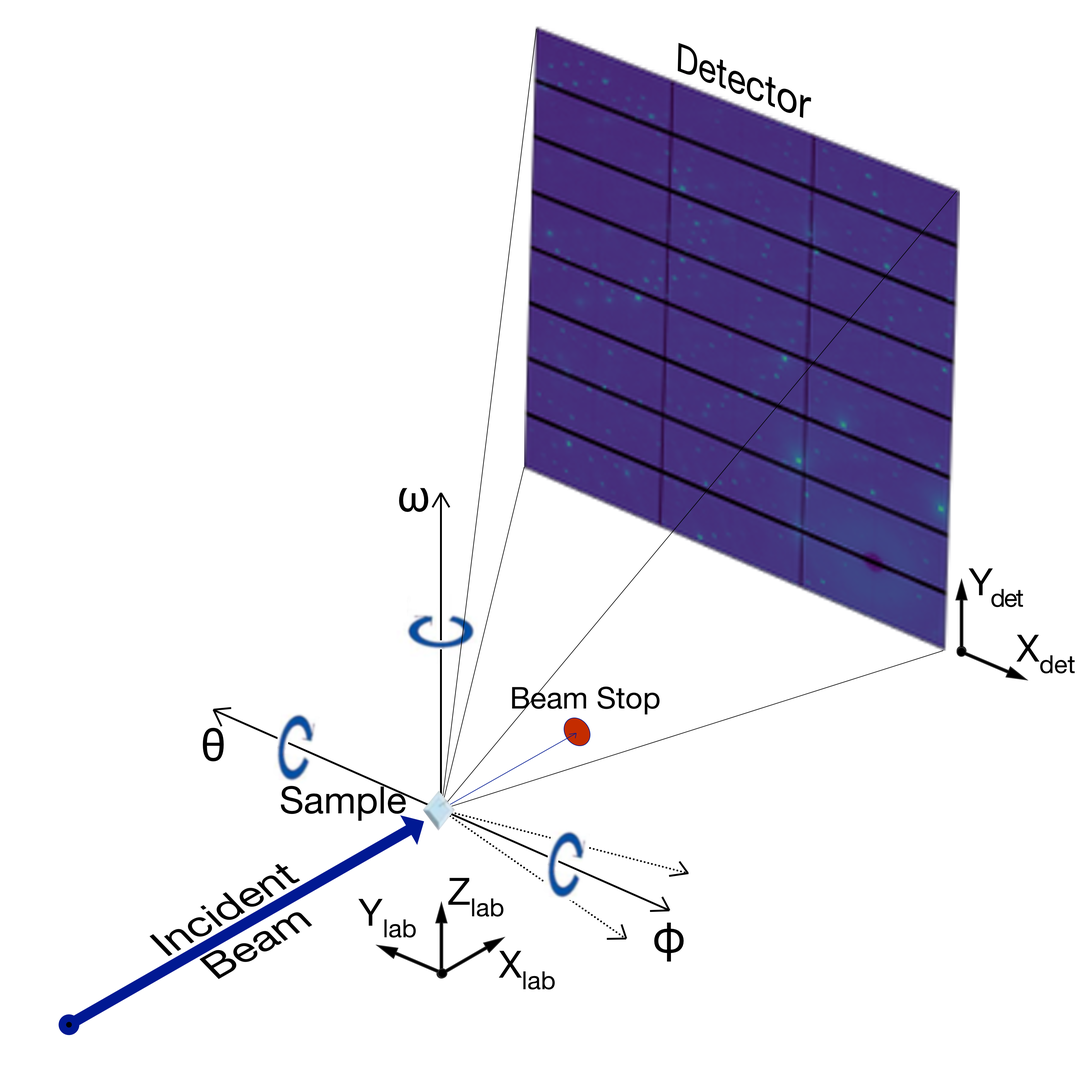
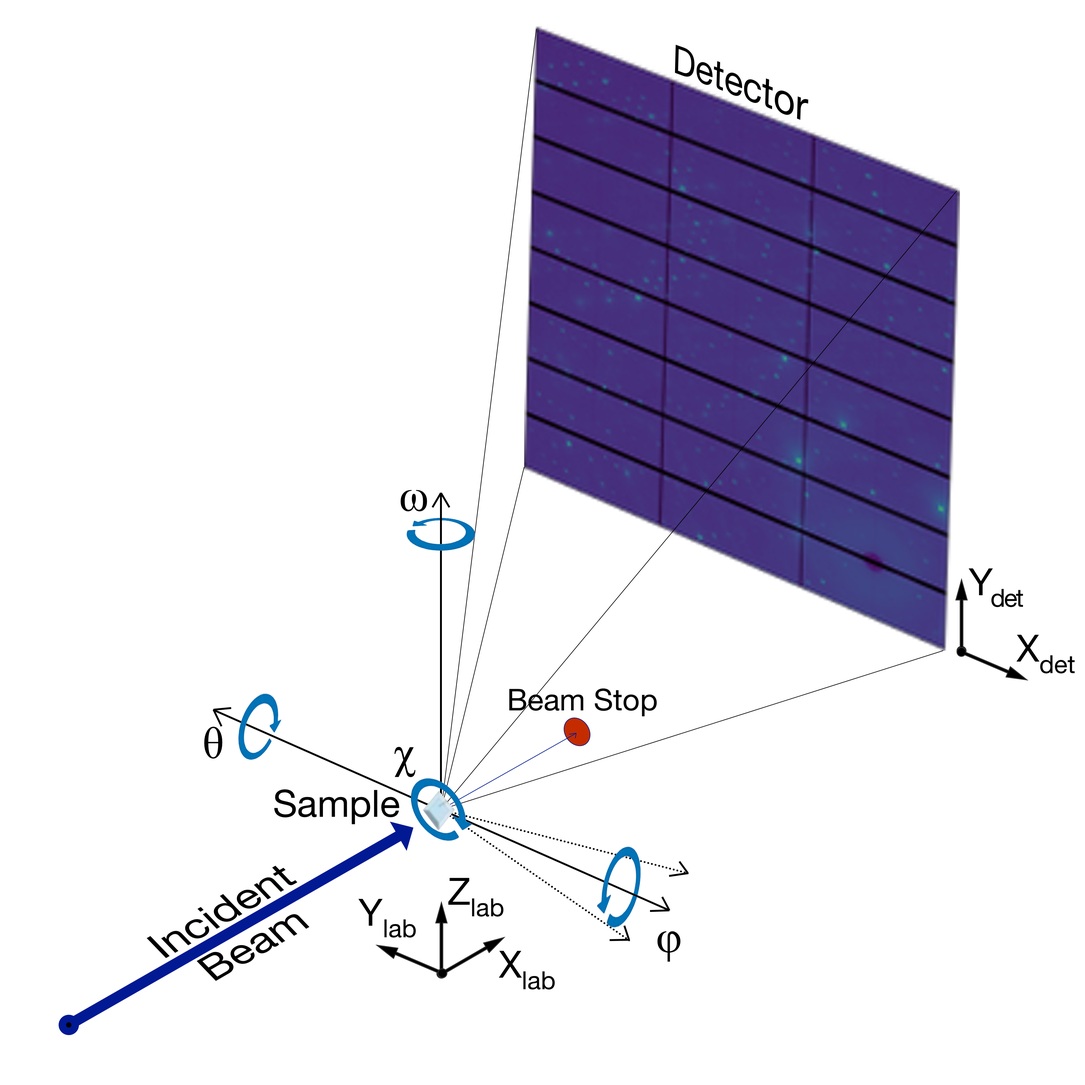
deploy: 9f89258240fb28039b5571b970d1efc821f41627

diff --git a/searchindex.js b/searchindex.js
@@ -1,1 +1,1 @@
-Search.setIndex({docnames:["experiment","index","installation","introduction","nxrefine"],envversion:{"sphinx.domains.c":2,"sphinx.domains.changeset":1,"sphinx.domains.citation":1,"sphinx.domains.cpp":5,"sphinx.domains.index":1,"sphinx.domains.javascript":2,"sphinx.domains.math":2,"sphinx.domains.python":3,"sphinx.domains.rst":2,"sphinx.domains.std":2,sphinx:56},filenames:["experiment.rst","index.rst","installation.rst","introduction.rst","nxrefine.rst"],objects:{},objnames:{},objtypes:{},terms:{"0":3,"1":[0,3],"10":[2,3],"100":0,"100k":0,"10\u00e5":3,"1967":3,"1999":3,"2":0,"200":0,"2023":0,"22":3,"23":0,"3":[0,3],"30":3,"300":0,"32":3,"3d":3,"3x3":3,"457":3,"6":[0,3],"614":3,"75969":0,"90":3,"\u03b4":3,"\u03b4pdf":3,"\u03b7":3,"\u03b8":3,"\u03bc":3,"\u03bd":3,"\u03c6":3,"\u03c7":3,"\u03c9":3,"case":3,"class":0,"default":0,"export":2,"final":3,"function":[0,1,3],"import":[0,2],"new":[0,2],"return":2,"switch":2,"true":2,"while":1,A:2,At:[0,3],By:[0,3],For:[0,3],If:[0,2,3],In:[0,2,3],It:[0,2,3],No:0,On:0,The:[0,1,2,3],Then:2,There:0,These:[0,1,2,3],To:[0,3],With:3,_:3,abbrevi:0,about:3,abov:[0,3],absolut:3,access:0,accommod:3,accomplish:3,accord:0,acquisit:[1,3],act:0,acta:3,ad:2,add:2,addit:[2,3],adjust:3,administr:2,advanc:[0,1,3],after:[0,1],aim:0,algorithm:3,all:[0,2,3],allow:[0,1,2,3],along:3,alpha:3,alreadi:[0,2],also:[0,2,3],altern:0,although:[0,2],an:[0,1,2,3],analysi:0,analysis_hom:0,analysis_path:0,analyz:0,angl:[0,3],ani:[0,2],anl:2,anoth:0,ap:0,appear:0,append:2,appl:3,appropri:3,approxim:3,ar:[0,1,2,3],arbitrari:3,area:[1,3],aris:1,around:3,arrai:[0,1,3],assign:3,associ:0,assum:[0,3],autom:1,automat:[0,2,3],avail:[0,1],averag:[1,3],avoid:0,ax:3,axi:3,b:3,bar:2,base:[2,3],bashrc:2,batch:1,beam:[1,3],beamlin:[0,2,3],becaus:0,been:[0,2,3],befor:[0,1,2,3],begin:3,behind:3,being:[0,1],below:[0,2],between:[0,3],blank:0,both:[0,1,2,3],bragg:[1,3],brillouin:3,browser:0,bug:2,build:2,buse:3,c:[2,3],calcul:3,calibr:[0,2,3],call:[0,3],can:[0,1,2,3],cannot:0,cartesian:3,caus:2,cbf:[0,3],cci:2,cctbx:2,cctbx_doc:2,cctw:[1,3],cell:3,center:3,certain:3,chang:[2,3],chemic:0,chess:[0,3],chi:3,chip:3,choos:0,chosen:0,circl:3,click:0,clone:2,code:2,collect:[0,1,3],com:2,command:[0,1,2],common:[0,3],commonli:3,compat:0,complet:[0,1,3],compon:0,compris:[0,3],comput:2,concern:2,concurr:2,conda:2,configur:[0,2,3],conform:0,conjunct:2,connect:3,consist:3,contact:2,contain:[0,2,3],content:0,contigu:1,continu:[1,3],convent:3,convers:3,convert:3,coordin:[0,1,2,3],copi:[0,2],core:2,corner:3,correspond:[0,3],corrupt:2,could:[0,2],coupl:3,cours:3,cover:3,cpu1:2,cpu2:2,cpu3:2,creat:[0,2,3],creation:0,cryst:3,crystal:[0,1,2,3],crystallin:[1,3],crystallograph:1,current:[2,3],custom:[0,2],cycl:0,d:[0,2,3],data:[0,1,2,3],databas:0,date:2,db:0,dectri:3,defin:[0,2,3],depend:[2,3],deriv:1,describ:[0,2,3],descript:0,design:[0,3],det:3,detail:2,detector:[1,3],determin:[2,3],deviat:[1,3],dialog:[0,2],differ:[0,2,3],diffract:1,diffus:[1,3],dimension:[1,3],direct:3,directli:0,directori:1,disabl:2,discrep:3,distanc:3,distribut:[0,2,3],doc:2,doe:0,don:0,download:2,downward:3,dure:0,e:[0,1,2,3],each:[0,2,3],earlier:3,easili:0,echo:2,edit:[0,2],either:[0,1,2,3],elimin:3,enabl:1,end:[2,3],energi:3,entir:1,environ:2,equat:3,equival:[0,3],estim:3,etc:0,everi:0,exampl:[0,2,3],exce:3,except:0,exclus:0,execut:2,exist:[0,1,2],experi:[1,2,3],experiment1:0,experiment2:0,experiment3:0,experiment:[0,1,2],extens:0,extern:0,f1:0,f1_transform:0,f2:0,f2_transform:0,f3:0,f3_transform:0,facil:0,facilit:[0,3],fals:2,fashion:1,fast:1,fastest:3,few:3,field:0,fifo:2,fig:3,figur:[2,3],file:[0,2,3],fill:[0,3],finish:2,first:[2,3],firstli:0,fix:3,flip:3,follow:[0,2,3],form:3,format:0,formula:0,four:3,frac:3,frame:3,framework:0,from:[0,1,2,3],further:0,futur:2,g:[0,1,2,3],gap:3,gener:[0,1,3],geometri:1,gigabyt:3,git:2,github:2,given:3,goal:1,goniomet:[0,3],gonpitch:3,gov:2,grid:2,group:[0,2],grower:0,gui:[0,1,2],gup:0,h5:0,h:[0,3],ha:[0,2,3],hand:[2,3],handl:3,hat:3,have:[0,1,2,3],hdf5:0,here:[0,2],hidden:2,hierarch:0,hierarchi:0,high:3,hit:2,home:[0,2],horizont:3,how:0,howev:[1,3],http:2,hundr:3,i:[0,2,3],id4b:0,id4baux:0,id:[0,3],ideal:3,identifi:3,imag:[0,1,3],implement:[0,1,2,3],incid:3,includ:[0,1,2],independ:3,index:1,indic:3,info:2,inform:[0,2],ingest:0,ini:[0,2],initi:[0,1,3],input:[0,2],inspect:[0,1,3],instal:1,instrument:[1,2,3],intens:[1,3],interatom:3,interest:2,interfer:0,intern:0,intersect:3,introduct:1,invert:3,io:2,issu:2,item:2,its:[0,3],itself:[2,3],j:3,jen:2,job:[1,2],job_id:2,just:3,k:3,keep:2,kei:2,known:3,l:3,l_:3,lab:3,label1:0,label2:0,label:0,laboratori:3,lambda:3,larg:1,larger:0,later:[0,2,3],lattic:3,launch:[0,1,2],layout:1,lbl:2,left:[0,3],level:0,levi:3,librari:1,limit:2,line:[0,1,2],link:[0,2],list:[0,2],load:0,local:2,locat:[0,2],lock:2,log:[0,2],logic:0,login:2,longer:0,lower:3,m:2,machin:2,macro:0,mai:[0,2],manag:2,mani:[0,3],manual:3,map:3,mathbf:3,mathcal:3,matric:3,matrix:[1,3],matter:1,mean:0,measur:[0,1,3],menu:[0,2],merg:3,mesh:[1,3],metadata:[0,2],method:[0,3],minim:3,minut:[1,3],misalign:3,model:3,modifi:[0,2],modul:[0,1],monochromat:[1,3],more:[0,2],most:0,motor:3,move:[0,3],much:[0,2],multicor:2,multinod:2,multipl:[2,3],multipli:3,must:[0,2],mysql:0,name:[0,2],necessari:[0,2,3],need:[2,3],neutron:0,nexpi:[0,1],next:0,nexu:[0,2,3],nexusformat:[0,2],nf:0,node:2,normal:[0,3],note:2,number:[0,2],nx:0,nx_lock:2,nx_lockdirectori:2,nxbeamlin:0,nxcommand:2,nxdatabas:0,nxlogger:0,nxrefin:[0,2,3],nxserver:2,nxset:[0,2],nxsetup:2,nxstack:0,o:3,often:[0,3],old:2,omega:3,onc:[0,2,3],one:[0,3],ones:2,onli:[0,2,3],open:[0,2],oper:[2,3],optim:3,option:0,order:[0,2,3],org:2,orient:[1,2],origin:3,orthogon:3,osborn:2,other:[0,2,3],otherwis:0,output:2,overridden:2,own:2,p:3,packag:[0,2],page:1,pair:[0,3],paper:3,parallel:[0,2,3],paramet:[0,2,3],parametr:[0,3],parent:2,part:0,particular:[0,2],path:[0,2],patterson:3,pdf:3,peak:[1,2,3],perform:[0,2],period:0,permiss:2,perpendicular:3,persist:2,peter:2,phi:3,photon:[0,3],pilatu:3,pip:2,pitch:3,pixel:3,place:[2,3],plane:3,pleas:2,plugin:[0,1,2],pmatrix:3,point:3,poni:0,posit:3,possibl:[0,3],powder:[0,2,3],powder_calibr:0,prepar:2,prepend:2,present:3,prevent:2,previou:0,principl:2,probabl:3,procedur:0,process:[0,2,3],produc:[0,3],program:3,propos:0,provid:[0,2,3],psutil:2,punch:3,pyfai:[0,2],pypi:2,python:[1,2],q00000:2,q:3,qm2:3,qsub:2,queu:2,queue:[1,2],quickli:3,quit:[0,3],r:3,rai:[0,1,2,3],rapid:1,raw6m:0,raw:[0,3],raw_hom:0,raw_path:0,reach:2,read:[0,2],readthedoc:2,real:3,reason:3,recent:1,reciproc:[0,1,2,3],recommend:[0,2],record:[0,2],rectangular:3,reduc:[1,3],reduct:[0,1,2,3],refer:[2,3],refin:[1,2,3],rel:0,relat:3,relev:2,remov:2,repeat:3,replac:2,report:2,repositori:2,repres:3,requir:[0,1,3],respect:3,result:[0,2,3],retain:3,right:[2,3],roll:3,rosborn:2,rotat:[0,1,3],run:[0,1,2,3],run_command:2,s:[0,2,3],sai:0,same:[0,2],sampl:[0,1],sample1:0,sample1_100k:0,sample1_200k:0,sample1_300k:0,sample2:0,sample3:0,sample_scan:0,save:[0,3],scan:[0,2,3],scatter:[0,1,3],scenario:0,schedul:0,scientist:3,screen:0,script:[0,2],sd:3,search:[1,2,3],secondli:0,section:[0,2,3],sector:[0,3],see:[0,2,3],select:[0,3],separ:[0,2],seri:3,server:0,session:2,set:[0,1,3],setup:1,sh:2,share:0,shell:2,should:[0,2,3],show:[2,3],shown:3,simultan:2,sinc:[0,3],singl:[0,1,3],situat:3,size:3,small:3,so:[0,1,2,3],solv:1,some:2,someon:0,sometim:3,sourc:[0,2,3],space:[0,1,2,3],specif:0,specifi:[0,2],speed:[2,3],sqlalchemi:2,stack:[0,1],stage:3,stale:2,standard:[0,2],start:2,statu:0,still:[0,3],storag:0,store:[0,2,3],string:[2,3],structur:[0,1,2,3],sub:1,submiss:2,submit:[1,2],subsequ:2,subset:0,sum:3,suppli:2,support:1,synchrotron:[0,1],system:[2,3],t:0,task:[0,2],task_list:2,tau_:3,tau_i:3,tau_x:3,tau_z:3,temperatur:[0,1,3],templat:[0,2],ten:3,termin:0,thei:[0,2],them:[0,2,3],themselv:0,theta:3,thi:[0,2,3],those:3,thousand:3,three:[0,1,2,3],threshold:3,through:3,tiff:[0,3],tilt:3,time:[0,3],tise2:0,togeth:0,too:3,tool:[2,3],top:[0,3],touch:[0,2],traceback:2,transform:[0,1,2,3],translat:3,transmiss:3,tree:0,two:[0,2,3],type:[0,2],typic:[0,1],u:3,uncompress:3,under:3,uniqu:[0,2],unit:3,up:2,updat:2,upload:2,upper:3,url:2,us:[0,1,2,3],user:[0,1],usual:[0,3],valid:2,valu:[0,2,3],variabl:[0,2,3],vector:3,version:3,vertic:3,view:[0,2],volum:[1,3],wa:3,wangxu:2,want:0,wavelength:3,we:0,what:2,when:[0,2,3],where:[0,3],wherea:3,whether:2,which:[0,2,3],whose:3,within:[0,2],without:2,workflow:[0,1,2,3],would:[0,3],wrap:2,write:2,written:[1,2],x:[0,1,3],x_:3,x_c:3,x_p:3,y:3,y_:3,y_c:3,y_p:3,yaw:3,you:[2,3],z:3,z_:3,zone:3},titles:["Experiments","NXRefine","Installation","Introduction","nxrefine package"],titleterms:{"default":2,cctw:2,content:4,directori:[0,2],experi:0,experiment:3,geometri:3,indic:1,initi:2,instal:2,instrument:0,introduct:3,layout:0,librari:2,modul:4,nexpi:2,nxrefin:[1,4],orient:3,packag:4,requir:2,sampl:3,server:2,set:2,setup:[0,2],sub:0,submodul:4,support:2,tabl:1,user:2}})
+Search.setIndex({docnames:["experiment","index","installation","introduction","nxrefine"],envversion:{"sphinx.domains.c":2,"sphinx.domains.changeset":1,"sphinx.domains.citation":1,"sphinx.domains.cpp":5,"sphinx.domains.index":1,"sphinx.domains.javascript":2,"sphinx.domains.math":2,"sphinx.domains.python":3,"sphinx.domains.rst":2,"sphinx.domains.std":2,sphinx:56},filenames:["experiment.rst","index.rst","installation.rst","introduction.rst","nxrefine.rst"],objects:{},objnames:{},objtypes:{},terms:{"0":3,"1":[0,3],"10":[2,3],"100":0,"100k":0,"10\u00e5":3,"1967":3,"1999":3,"2":0,"200":0,"2023":0,"22":3,"23":0,"3":[0,3],"30":3,"300":0,"32":3,"3d":3,"3x3":3,"457":3,"6":[0,3],"614":3,"75969":0,"90":3,"\u03b4":3,"\u03b4pdf":3,"\u03b7":3,"\u03b8":3,"\u03bc":3,"\u03bd":3,"\u03c6":3,"\u03c7":3,"\u03c9":3,"class":0,"default":0,"export":2,"final":3,"function":[0,1,3],"import":[0,2],"new":[0,2],"return":2,"switch":2,"true":2,"while":1,A:2,At:[0,3],By:[0,3],For:[0,3],If:[0,2,3],In:[0,2,3],It:[0,2,3],No:0,On:0,The:[0,1,2,3],Then:2,There:0,These:[0,1,2,3],To:[0,3],With:3,_:3,abbrevi:0,about:3,abov:[0,3],absolut:3,access:0,accommod:3,accomplish:3,accord:0,acquisit:[1,3],act:0,acta:3,ad:2,add:2,addit:[2,3],adjust:3,administr:2,advanc:[0,1,3],after:[0,1],aim:0,algorithm:3,all:[0,2,3],allow:[0,1,2,3],along:3,alpha:3,alreadi:[0,2],also:[0,2,3],altern:0,although:[0,2],an:[0,1,2,3],analysi:0,analysis_hom:0,analysis_path:0,analyz:0,angl:[0,3],ani:[0,2],anl:2,anoth:0,ap:0,appear:0,append:2,appl:3,approxim:3,ar:[0,1,2,3],arbitrari:3,area:[1,3],aris:1,around:3,arrai:[0,1,3],assign:3,associ:0,assum:[0,3],autom:1,automat:[0,2,3],avail:[0,1],averag:[1,3],avoid:0,ax:3,axi:3,b:3,bar:2,base:[2,3],bashrc:2,batch:1,beam:[1,3],beamlin:[0,2,3],becaus:0,been:[0,2,3],befor:[0,1,2,3],begin:3,behind:3,being:[0,1],below:[0,2],between:[0,3],blank:0,both:[0,1,2,3],bragg:[1,3],brillouin:3,browser:0,bug:2,build:2,buse:3,c:[2,3],calcul:3,calibr:[0,2,3],call:[0,3],can:[0,1,2,3],cannot:0,cartesian:3,caus:2,cbf:[0,3],cci:2,cctbx:2,cctbx_doc:2,cctw:[1,3],cell:3,center:3,certain:3,chain:3,chang:[2,3],chemic:0,chess:[0,3],chi:3,chip:3,choos:0,chosen:0,circl:3,click:0,clone:2,code:2,collect:[0,1,3],com:2,command:[0,1,2],common:[0,3],commonli:3,compat:0,complet:[0,1,3],compon:0,compris:[0,3],comput:2,concern:2,concurr:2,conda:2,configur:[0,2,3],conform:0,conjunct:2,connect:3,consist:3,contact:2,contain:[0,2,3],content:0,contigu:1,continu:[1,3],convent:3,convers:3,convert:3,coordin:[0,1,2,3],copi:[0,2],core:2,corner:3,correspond:[0,3],corrupt:2,could:[0,2],coupl:3,cours:3,cover:3,cpu1:2,cpu2:2,cpu3:2,creat:[0,2,3],creation:0,cryst:3,crystal:[0,1,2,3],crystallin:[1,3],crystallograph:1,current:[2,3],custom:[0,2],cycl:0,d:[0,2,3],data:[0,1,2,3],databas:0,date:2,db:0,defin:[0,2,3],depend:[2,3],deriv:1,describ:[0,2,3],descript:0,design:[0,3],det:3,detail:2,detector:[1,3],determin:[2,3],deviat:[1,3],dialog:[0,2],differ:[0,2,3],diffract:1,diffus:[1,3],dimension:[1,3],direct:3,directli:0,directori:1,disabl:2,discrep:3,distanc:3,distribut:[0,2,3],doc:2,doe:0,don:0,download:2,downward:3,dure:0,e:[0,1,2,3],each:[0,2,3],earlier:3,easili:0,echo:2,edit:[0,2],either:[0,1,2,3],elimin:3,enabl:1,end:[2,3],energi:3,entir:1,environ:2,equat:3,equival:[0,3],estim:3,etc:0,everi:0,exampl:[0,2,3],exce:3,except:0,exclus:0,execut:2,exist:[0,1,2],experi:[1,2,3],experiment1:0,experiment2:0,experiment3:0,experiment:[0,1,2],extens:0,extern:0,f1:0,f1_transform:0,f2:0,f2_transform:0,f3:0,f3_transform:0,facil:0,facilit:[0,3],fals:2,fashion:1,fast:1,fastest:3,few:3,field:0,fifo:2,fig:3,figur:[2,3],file:[0,2,3],fill:[0,3],finish:2,first:[2,3],firstli:0,fix:3,flip:3,follow:[0,2,3],form:3,format:0,formula:0,four:3,frac:3,frame:3,framework:0,from:[0,1,2,3],further:0,futur:2,g:[0,1,2,3],gap:3,gener:[0,1,3],geometri:1,gigabyt:3,git:2,github:2,given:3,goal:1,goniomet:[0,3],gonpitch:3,gov:2,grid:2,group:[0,2],grower:0,gui:[0,1,2],gup:0,h5:0,h:[0,3],ha:[0,2,3],hand:[2,3],handl:3,hat:3,have:[0,1,2,3],hdf5:0,here:[0,2],hidden:2,hierarch:0,hierarchi:0,high:3,hit:2,home:[0,2],horizont:3,how:0,howev:[1,3],http:2,hundr:3,i:[0,2,3],id4b:0,id4baux:0,id:[0,3],ideal:3,identifi:3,imag:[0,1,3],implement:[0,1,2,3],incid:3,includ:[0,1,2],independ:3,index:1,indic:3,info:2,inform:[0,2],ingest:0,ini:[0,2],initi:[0,1,3],input:[0,2],inspect:[0,1,3],instal:1,instrument:[1,2,3],intens:[1,3],interatom:3,interest:2,interfer:0,intern:0,intersect:3,introduct:1,io:2,issu:2,item:2,its:[0,3],itself:[2,3],j:3,jen:2,job:[1,2],job_id:2,just:3,k:3,keep:2,kei:2,known:3,l:3,l_:3,l_axi:3,lab:3,label1:0,label2:0,label:0,laboratori:3,lambda:3,larg:1,larger:0,later:[0,2,3],lattic:3,launch:[0,1,2],layout:1,lbl:2,left:[0,3],level:0,levi:3,librari:1,limit:2,line:[0,1,2],link:[0,2],list:[0,2],load:0,local:2,locat:[0,2],lock:2,log:[0,2],logic:0,login:2,longer:0,lower:3,m:2,machin:2,macro:0,mai:[0,2],manag:2,mani:[0,3],manual:3,map:3,mathbf:3,mathcal:3,matric:3,matrix:[1,3],matter:1,mean:0,measur:[0,1,3],menu:[0,2],merg:3,mesh:[1,3],metadata:[0,2],method:[0,3],minim:3,minut:[1,3],misalign:3,model:3,modifi:[0,2],modul:[0,1],monochromat:[1,3],more:[0,2],most:0,motor:3,move:[0,3],much:[0,2],multicor:2,multinod:2,multipl:[2,3],multipli:3,must:[0,2],mysql:0,name:[0,2],necessari:[0,2,3],need:[2,3],neutron:0,nexpi:[0,1],next:0,nexu:[0,2,3],nexusformat:[0,2],nf:0,node:2,normal:[0,3],note:2,number:[0,2],nx:0,nx_lock:2,nx_lockdirectori:2,nxbeamlin:0,nxcommand:2,nxdatabas:0,nxlogger:0,nxrefin:[0,2,3],nxserver:2,nxset:[0,2],nxsetup:2,nxstack:0,o:3,often:[0,3],old:2,omega:3,onc:[0,2,3],one:[0,3],ones:2,onli:[0,2,3],open:[0,2],oper:[2,3],optim:3,option:0,order:[0,2,3],org:2,orient:[1,2],origin:3,orthogon:3,osborn:2,other:[0,2,3],otherwis:0,output:2,overridden:2,own:2,p:3,packag:[0,2],page:1,pair:[0,3],paper:3,parallel:[0,2,3],paramet:[0,2,3],parametr:[0,3],parent:2,part:0,particular:[0,2],path:[0,2],patterson:3,pdf:3,peak:[1,2,3],perform:[0,2],period:0,permiss:2,perpendicular:3,persist:2,peter:2,phi:3,photon:[0,3],pip:2,pitch:3,pixel:3,place:[2,3],plane:3,pleas:2,plugin:[0,1,2],pmatrix:3,point:3,poni:0,posit:3,possibl:[0,3],powder:[0,2,3],powder_calibr:0,prepar:2,prepend:2,present:3,prevent:2,previou:0,principl:2,probabl:3,procedur:0,process:[0,2,3],produc:[0,3],program:3,propos:0,provid:[0,2,3],psutil:2,punch:3,pyfai:[0,2],pypi:2,python:[1,2],q00000:2,q:3,qm2:3,qsub:2,queu:2,queue:[1,2],quickli:3,quit:[0,3],r:3,rai:[0,1,2,3],rapid:1,raw6m:0,raw:[0,3],raw_hom:0,raw_path:0,reach:2,read:[0,2],readthedoc:2,real:3,reason:3,recent:1,reciproc:[0,1,2,3],recommend:[0,2],record:[0,2],rectangular:3,reduc:[1,3],reduct:[0,1,2,3],refer:[2,3],refin:[1,2,3],rel:0,relat:3,relev:2,remov:2,repeat:3,replac:2,report:2,repositori:2,repres:3,requir:[0,1,3],respect:3,result:[0,2,3],retain:3,right:[2,3],roll:3,rosborn:2,rotat:[0,1,3],run:[0,1,2,3],run_command:2,s:[0,2,3],sai:0,same:[0,2],sampl:[0,1],sample1:0,sample1_100k:0,sample1_200k:0,sample1_300k:0,sample2:0,sample3:0,sample_scan:0,save:[0,3],scan:[0,2,3],scatter:[0,1,3],scenario:0,schedul:0,scientist:3,screen:0,script:[0,2],sd:3,search:[1,2,3],secondli:0,section:[0,2,3],sector:[0,3],see:[0,2,3],select:[0,3],separ:[0,2],server:0,session:2,set:[0,1,3],setup:1,sh:2,share:0,shell:2,should:[0,2,3],show:[2,3],simultan:2,sinc:[0,3],singl:[0,1,3],situat:3,size:3,small:3,so:[0,1,2,3],solv:1,some:2,someon:0,sometim:3,sourc:[0,2,3],space:[0,1,2,3],specif:0,specifi:[0,2],speed:[2,3],sqlalchemi:2,stack:[0,1],stage:3,stale:2,standard:[0,2],start:2,statu:0,still:[0,3],storag:0,store:[0,2],string:[2,3],structur:[0,1,2,3],sub:1,submiss:2,submit:[1,2],subsequ:2,subset:0,sum:3,suppli:2,support:1,synchrotron:[0,1],system:[2,3],t:0,task:[0,2],task_list:2,tau_:3,tau_i:3,tau_x:3,tau_z:3,temperatur:[0,1,3],templat:[0,2],ten:3,termin:0,thei:[0,2],them:[0,2,3],themselv:0,theta:3,thi:[0,2,3],those:3,thousand:3,three:[0,1,2,3],threshold:3,through:3,tiff:[0,3],tilt:3,time:[0,3],tise2:0,togeth:0,too:3,tool:[2,3],top:0,touch:[0,2],traceback:2,transform:[0,1,2,3],translat:3,transmiss:3,tree:0,two:[0,2,3],type:[0,2],typic:[0,1],u:3,uncompress:3,under:3,uniqu:[0,2],unit:3,up:2,updat:2,upload:2,upper:3,url:2,us:[0,1,2,3],user:[0,1],usual:[0,3],valid:2,valu:[0,2,3],variabl:[0,2,3],vector:3,version:3,vertic:3,view:[0,2],volum:[1,3],wa:3,wangxu:2,want:0,wavelength:3,we:0,what:2,when:[0,2,3],where:[0,3],wherea:3,whether:2,which:[0,2,3],whose:3,within:[0,2],without:2,workflow:[0,1,2,3],would:[0,3],wrap:2,write:2,written:[1,2],x:[0,1,3],x_:3,x_c:3,x_p:3,y:3,y_:3,y_c:3,y_p:3,yaw:3,you:[2,3],z:3,z_:3,zone:3},titles:["Experiments","NXRefine","Installation","Introduction","nxrefine package"],titleterms:{"default":2,cctw:2,content:4,directori:[0,2],experi:0,experiment:3,geometri:3,indic:1,initi:2,instal:2,instrument:0,introduct:3,layout:0,librari:2,modul:4,nexpi:2,nxrefin:[1,4],orient:3,packag:4,requir:2,sampl:3,server:2,set:2,setup:[0,2],sub:0,submodul:4,support:2,tabl:1,user:2}})

diff --git a/introduction.html b/introduction.html
@@ -53,12 +53,12 @@ represent the summed probabilities of all possible interatomic vectors
 in real space, <em>i.e.</em>, Patterson maps. If the Bragg peaks are eliminated
 before these transforms, using a process known as ‘punch-and-fill,’ only
 those probabilities that deviate from the average crystalline structure
-are retained, generating ‘difference’ Patterson, or 3D-ΔPDF, maps. The
-final stage of the NXRefine workflow is to generate such 3D-ΔPDF maps.</p>
-<p>The uncompressed raw data from such measurements comprises tens (and
-sometimes hundreds) of gigabytes, often collected in under 30 minutes.
-The speed of data collection allows such measurements to be repeated
-multiple times as a function of a parametric variable, such as
+are retained. The final stage of the NXRefine workflow is to generate
+such 3D-ΔPDF maps.</p>
+<p>The uncompressed raw data from such measurements comprise tens (and
+sometimes hundreds) of gigabytes, which are often collected in under 30
+minutes. The speed of data collection allows such measurements to be
+repeated multiple times as a function of a parametric variable, such as
 temperature. Ideally, such data should be transformed into reciprocal
 space as quickly as it is measured, so that scientists can inspect the
 results before a set of scans is complete. For this reason, the NXRefine
@@ -71,23 +71,23 @@ Source and the QM2 beamline at CHESS.</p>
 <p>NXRefine is designed for experiments, in which the sample is placed in a
 monochromatic x-ray beam and rotated continuously about a Φ-axis that is
 approximately perpendicular to the beam. Images are collected on an area
-detector placed in transmission geometry behind the sample. Detectors
-such as the Dectris Pilatus series consist of a set of chips with small
-gaps between them, so sample rotation scans are often repeated multiple
-times (usually three) with small detector translations between each one
-to fill in these gaps. However, it is also possible to accomplish this
-just by adjusting the orientation of the Φ-axis itself. NXRefine reduces
-the data independently for each rotation scan before merging them to
-create a single 3D data volume.</p>
+detector placed in transmission geometry behind the sample. Many
+detectors consist of a set of chips with small gaps between them, so
+sample rotation scans are often repeated multiple times (usually three)
+with small detector translations between each one to fill in these gaps.
+However, it is also possible to accomplish this just by adjusting the
+orientation of the Φ-axis itself. NXRefine reduces the data
+independently for each rotation scan before merging them to create a
+single 3D data volume.</p>
 <div class="figure align-center" id="id1">
 <a class="reference internal image-reference" href="_images/experimental-geometry.png"><img alt="_images/experimental-geometry.png" src="_images/experimental-geometry.png" style="width: 80%;" /></a>
 <p class="caption"><span class="caption-text"><em>Experimental geometry used in NXRefine.</em></span><a class="headerlink" href="#id1" title="Permalink to this image">¶</a></p>
 </div>
 <p>The Φ-axis is approximately perpendicular to the beam. The Φ-axis motor
-is on a χ-circle (not shown), with χ = 0° corresponding to a vertical
-axis of rotation. The figure shows a configuration, in which χ = -90°.
-The orientation of the Φ-axis can also be adjusted in the horizontal
-plane by ω and in the vertical plane by θ.</p>
+is on a χ-circle, with χ = 0° corresponding to a vertical axis of
+rotation. The figure shows a configuration, in which χ = -90°. The
+orientation of the Φ-axis can also be adjusted in the horizontal plane
+by ω and in the vertical plane by θ.</p>
 <div class="admonition note">
 <p class="admonition-title">Note</p>
 <p>This geometry is equivalent to the four-circle geometry
@@ -111,8 +111,8 @@ coordinates to reciprocal space.</p>
 coordinates as laboratory coordinates when all angles are set to 0.</p>
 <ul class="simple">
 <li><p>+X<sub>lab</sub>: parallel to the incident beam.</p></li>
-<li><p>+Z<sub>lab</sub>: parallel to the (usually vertical) axis connecting the base of the
-χ-circle to the sample.</p></li>
+<li><p>+Z<sub>lab</sub>: parallel to the (usually vertical) axis connecting the
+base of the χ-circle to the sample.</p></li>
 <li><p>+Y<sub>lab</sub>: defined to produce a right-handed set of coordinates.</p></li>
 </ul>
 <p>In addition to defining the sample orientation, it is necessary to
@@ -123,21 +123,10 @@ direction, which is normally horizontal, so the orthogonal Y-axis is
 usually vertical. The two coordinate systems are then related by:</p>
 <blockquote>
 <div><div class="line-block">
-<div class="line">+X<sub>det</sub> = -Y<sub>lab</sub>, +Y<sub>det</sub> = +Z<sub>lab</sub>, and +Z<sub>det</sub> = -X<sub>lab</sub></div>
+<div class="line">+X<sub>det</sub> = -Y<sub>lab</sub>, +Y<sub>det</sub> = +Z<sub>lab</sub>,
+and +Z<sub>det</sub> = -X<sub>lab</sub></div>
 </div>
 </div></blockquote>
-<div class="admonition note">
-<p class="admonition-title">Note</p>
-<p>This orientation matrix to convert between these two coordinate
-systems is defined by a setting describing the conversion as a string.
-In the above example, the setting is “-y +z -x”.</p>
-</div>
-<div class="admonition warning">
-<p class="admonition-title">Warning</p>
-<p>Many detectors store images as TIFF or CBF files, with the origin
-at the top-left corner. In those case, the y-axis is inverted, so
-the appropriate setting should be “-y -z +x”.</p>
-</div>
 </div>
 <div class="section" id="sample-orientation">
 <h2>Sample Orientation<a class="headerlink" href="#sample-orientation" title="Permalink to this headline">¶</a></h2>
@@ -152,10 +141,11 @@ a certain intensity threshold, which are then used to generate an
 orientation matrix that is refined on many, if not all, Bragg peaks.</p>
 <p>Each peak is defined by its coordinates on the detector, <span class="math notranslate nohighlight">\(x_p\)</span> and
 <span class="math notranslate nohighlight">\(y_p\)</span>, and the goniometer angles <span class="math notranslate nohighlight">\(\theta\)</span>, <span class="math notranslate nohighlight">\(\omega\)</span>,
-<span class="math notranslate nohighlight">\(\chi\)</span>, and <span class="math notranslate nohighlight">\(\phi\)</span> defined in the figure above. These need to be
-converted into reciprocal space coordinates, <span class="math notranslate nohighlight">\(\mathbf{Q}(h,k,l)\)</span>, using an
-orientation matrix. The conversion between detector coordinates and reciprocal
-space coordinates is accomplished through a set of matrix operations.</p>
+<span class="math notranslate nohighlight">\(\chi\)</span>, and <span class="math notranslate nohighlight">\(\phi\)</span> defined in the figure above. These need
+to be converted into reciprocal space coordinates,
+<span class="math notranslate nohighlight">\(\mathbf{Q}(h,k,l)\)</span>, using an orientation matrix. The conversion
+between detector coordinates and reciprocal space coordinates is
+accomplished through a set of matrix operations:</p>
 <div class="math notranslate nohighlight">
 \[\mathbf{Q}(h,k,l) = \mathcal{B}^{-1}\mathcal{U}^{-1}\mathcal{G}^{-1}
 \frac{\left(\hat{\mathbf{d}}-\hat{\mathbf{x}}\right)}{\lambda}\]</div>
@@ -165,27 +155,29 @@ space coordinates is accomplished through a set of matrix operations.</p>
 \begin{pmatrix}{x_{p}-x_{c}}\\{y_{p}-y_{c}}\\0\end{pmatrix}-\mathcal{G}
 \begin{pmatrix}{x_{s}-l_{sd}}\\{y_{s}}\\{z_{s}}\end{pmatrix}\end{split}\]</div>
 <p>The <span class="math notranslate nohighlight">\(\mathcal{U}\)</span> and <span class="math notranslate nohighlight">\(\mathcal{B}\)</span> matrices are defined by
-Busing and Levy in Acta Cryst. <strong>22</strong>, 457 (1967). <span class="math notranslate nohighlight">\(\mathcal{G}\)</span> and
-<span class="math notranslate nohighlight">\(\mathcal{D}\)</span> describe two sets of rotations:</p>
+Busing and Levy in Acta Cryst. <strong>22</strong>, 457 (1967). <span class="math notranslate nohighlight">\(\mathcal{G}\)</span>
+and <span class="math notranslate nohighlight">\(\mathcal{D}\)</span> describe two sets of chained rotations:</p>
 <div class="math notranslate nohighlight">
 \[ \begin{align}\begin{aligned}\mathcal{G}(\theta,\omega,\chi,\phi)=\mathcal{R}^y(\theta)
 \mathcal{R}^z(\omega)\mathcal{R}^x(\chi)\mathcal{R}^z(\phi)\\\mathcal{D}(\tau_{x},\tau_{y},\tau_{z})=\mathcal{R}^x(\tau_{x})
 \mathcal{R}^y(\tau_{y})\mathcal{R}^z(\tau_{z})\end{aligned}\end{align} \]</div>
 <p><span class="math notranslate nohighlight">\(\mathcal{R}^\alpha\)</span> are rotation matrices around axes,
 <span class="math notranslate nohighlight">\(\alpha=x,y,z\)</span>, defined in the laboratory frame. The detector tilt
-angles, <span class="math notranslate nohighlight">\(\tau_x\)</span>, <span class="math notranslate nohighlight">\(\tau_y\)</span>, and <span class="math notranslate nohighlight">\(\tau_z\)</span> are commonly known
-as pitch, yaw, and roll, respectively.</p>
-<p>All distances are defined in absolute units, <em>i.e.</em>, in the above equations,
-the coordinates of the Bragg peaks, <span class="math notranslate nohighlight">\(x_p\)</span> and <span class="math notranslate nohighlight">\(y_p\)</span>, and the beam
-center, <span class="math notranslate nohighlight">\(x_c\)</span> and <span class="math notranslate nohighlight">\(y_c\)</span> have been multiplied by the pixel sizes.
-These coordinates are defined in the detector frame in which the <em>x</em> axis is
-the direction of the fastest-moving pixel coordinates. By convention, this is
-horizontal and the <em>y</em>-axis is vertical, <em>i.e.</em>, the origin of the pixel array
-is in the lower-left corner. However, it is quite common for detector images to
-be saved as TIFF or CBF files, in which the origin is in the upper-left corner,
-<em>i.e.</em>, the <em>y</em>-axis points downward. To accommodate this situation, and to
-handle other possible detector orientations, the <span class="math notranslate nohighlight">\(\mathcal{O}\)</span> matrix
-converts between detector and laboratory frames.</p>
+angles, <span class="math notranslate nohighlight">\(\tau_x\)</span>, <span class="math notranslate nohighlight">\(\tau_y\)</span>, and <span class="math notranslate nohighlight">\(\tau_z\)</span> are commonly
+known as pitch, yaw, and roll, respectively.</p>
+<p>All distances are defined in absolute units, <em>i.e.</em>, in the above
+equations, the coordinates of the Bragg peaks, <span class="math notranslate nohighlight">\(x_p\)</span> and
+<span class="math notranslate nohighlight">\(y_p\)</span>, and the beam center, <span class="math notranslate nohighlight">\(x_c\)</span> and <span class="math notranslate nohighlight">\(y_c\)</span> have been
+multiplied by the pixel sizes. These coordinates are defined in the
+detector frame in which the <em>x</em>-l_axis is the direction of the
+fastest-moving pixel coordinates. By convention, the <em>x</em>-axis is
+horizontal and the <em>y</em>-axis is vertical, <em>i.e.</em>, the origin of the pixel
+array is in the lower-left corner. However, it is quite common for
+detector images to be saved as TIFF or CBF files, in which the origin is
+in the upper-left corner, <em>i.e.</em>, the <em>y</em>-axis points downward. To
+accommodate this situation, and to handle other possible detector
+orientations, the <span class="math notranslate nohighlight">\(\mathcal{O}\)</span> matrix converts between detector
+and laboratory frames.</p>
 <p>So, for example, for the conventional detector orientation,</p>
 <div class="math notranslate nohighlight">
 \[\begin{split}\mathcal{O} = \begin{pmatrix}0 &amp; -1 &amp; 0\\0 &amp; 0 &amp; 1\\-1 &amp; 0 &amp; 0\end{pmatrix}\end{split}\]</div>
@@ -194,29 +186,31 @@ converts between detector and laboratory frames.</p>
 \[\begin{split}\mathcal{O} = \begin{pmatrix}0 &amp; -1 &amp; 0\\0 &amp; 0 &amp; -1\\1 &amp; 0 &amp; 0\end{pmatrix}\end{split}\]</div>
 <div class="admonition note">
 <p class="admonition-title">Note</p>
-<p>Currently, these matrices are defined in NXRefine settings files by
-a single string, defining which laboratory axis are parallel to the
-detector axes, <em>e.g.</em>, in the first example, “-y +z -x”. It is
-possible to define detector orientation for an arbitrary orientation,
-but this requires the (3x3) matrix to be manually defined in the
-NeXus file.</p>
+<p>Currently, these matrices are defined in NXRefine settings
+files by a single string, defining which laboratory axis are
+parallel to the detector axes, <em>e.g.</em>, in the first example,
+“-y +z -x”. It is possible to define detector orientation for
+an arbitrary orientation, but this requires the (3x3) matrix
+to be manually defined in the NeXus file.</p>
 </div>
-<p>The center of the sample, with respect to the goniometer center, is given by
-<span class="math notranslate nohighlight">\(x_s\)</span>, <span class="math notranslate nohighlight">\(y_s\)</span>, and <span class="math notranslate nohighlight">\(z_s\)</span>, and the distance from the goniometer
-center to the detector, at the point where the incident beam would intersect,
-is <span class="math notranslate nohighlight">\(l_{sd}\)</span>. The incident beam wavelength is <span class="math notranslate nohighlight">\(\lambda\)</span>.</p>
-<p>The position and orientation of the detector are originally estimated using a
-powder calibrant. The <span class="math notranslate nohighlight">\(\mathcal{B}\)</span> matrix is a function of the lattice
-parameters, which are assumed to be approximately known in advance. In the
-refinement process defined by NXRefine, an initial estimate of the orientation
-matrix, <span class="math notranslate nohighlight">\(\mathcal{U}\)</span>, is generated by selecting two peaks, whose
-(<em>h</em>, <em>k</em>, <em>l</em>) values are assumed based on their <em>d</em>-spacings. This allows all
-the other peaks to be assigned (<em>h</em>, <em>k</em>, <em>l</em>) indices. If these assignments
-are reasonable, then the other peaks are used to refine both the instrumental
-and sample parameters in order to minimize discrepancies between the calculated
-and measured peak positions and optimize <span class="math notranslate nohighlight">\(\mathcal{U}\)</span>. If too few peaks
-are assigned by the initial peak selection, it is necessary to select different
-peaks.</p>
+<p>The center of the sample, with respect to the goniometer center, is
+given by <span class="math notranslate nohighlight">\(x_s\)</span>, <span class="math notranslate nohighlight">\(y_s\)</span>, and <span class="math notranslate nohighlight">\(z_s\)</span>, and the distance
+from the goniometer center to the detector, at the point where the
+incident beam would intersect, is <span class="math notranslate nohighlight">\(l_{sd}\)</span>. The incident beam
+wavelength is <span class="math notranslate nohighlight">\(\lambda\)</span>.</p>
+<p>The position and orientation of the detector are originally estimated
+using a powder calibrant. The <span class="math notranslate nohighlight">\(\mathcal{B}\)</span> matrix is a function
+of the lattice parameters, which are assumed to be approximately known
+in advance. In the refinement process defined by NXRefine, an initial
+estimate of the orientation matrix, <span class="math notranslate nohighlight">\(\mathcal{U}\)</span>, is generated by
+selecting two peaks, whose (<em>h</em>, <em>k</em>, <em>l</em>) values are assumed based on
+their <em>d</em>-spacings. This allows all the other peaks to be assigned
+(<em>h</em>, <em>k</em>, <em>l</em>) indices. If these assignments are reasonable, then the
+other peaks are used to refine both the instrumental and sample
+parameters in order to minimize discrepancies between the calculated and
+measured peak positions and optimize <span class="math notranslate nohighlight">\(\mathcal{U}\)</span>. If too few
+peaks are assigned by the initial peak selection, it is necessary to
+select different peaks.</p>
 <p>The refinement process, along with the tools that NXRefine provide to
 facilitate peak assignments, are described in a later section.</p>
 </div>
